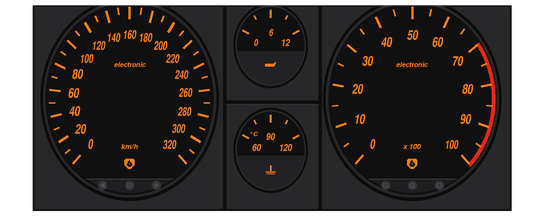
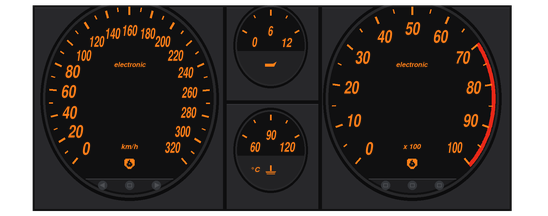
Furia TR: marcações menores e números maiores no quadro (mais perto do Veglia real) e coluna da porta inteira (janela lateral pela moldura de verdade)
Claude-Session: https://claude.ai/code/session_01MLD9VR7gkmY4w6a9beZcp6

diff --git a/tools/ref/testarossa_gauges.py b/tools/ref/testarossa_gauges.py
@@ -64,6 +64,7 @@ def tick(d, g, ang, r0, r1, w, col=OR):
 
 
 def label(s, cx, cy, size, squeeze=0.78, font=FONT, small_ok=True):
+    # small_ok=False: some na versão de 2 px por pixel (não cabe sem encostar nos vizinhos)
     LABELS.append((s, cx / K, cy / K, size, squeeze, font, small_ok))
 
 
@@ -71,8 +72,8 @@ def draw_labels(im):
     for s, cx, cy, size, squeeze, font, small_ok in LABELS:
         px = size * KO  # corpo em pixels finais
         x, y = cx * KO, cy * KO
-        if KO == 2 and px < 9:
-            if not all(ch in PIXFONT for ch in s):
+        if KO == 2 and px < 10:
+            if not small_ok or not all(ch in PIXFONT for ch in s):
                 continue
             tw = sum(len(PIXFONT[ch][0]) for ch in s) + len(s) - 1
             x0, y0 = int(round(x - tw / 2)), int(round(y - 2.5))
@@ -120,13 +121,13 @@ def big_dial(im, d, g, labels, minor, major, red_from=None, texts=()):
     v = 0.0
     while v <= g['max'] + 1e-6:
         if abs(v / major - round(v / major)) < 1e-6:
-            tick(d, g, fr(v), g['r'] - 3.6, g['r'] - 0.9, 0.62)
+            tick(d, g, fr(v), g['r'] - 2.6, g['r'] - 0.9, 0.5)
         else:
-            tick(d, g, fr(v), g['r'] - 2.4, g['r'] - 0.9, 0.42)
+            tick(d, g, fr(v), g['r'] - 1.8, g['r'] - 0.9, 0.34)
         v += minor
     for L in labels:
-        x, y = at(g, fr(L), g['r'] - 7.0)
-        label(str(L), x, y, 3.1 if L >= 100 else 3.3, squeeze=0.66 if L >= 100 else 0.78)
+        x, y = at(g, fr(L), g['r'] - (6.0 if L >= 100 else 5.6))
+        label(str(L), x, y, 4.0 if L >= 100 else 4.5, squeeze=0.6 if L >= 100 else 0.76, small_ok=L < 100 or L % 40 == 0 or g is TACH)
     # lente das luzes-espia embaixo (crescente escuro)
     x, y = P(g['x'], g['y'])
     rr = g['r'] * K
@@ -158,11 +159,11 @@ def small_dial(d, g, labels, icon):
     for i in range(5):
         a = a0 + (a1 - a0) * i / 4
         big = i % 2 == 0
-        tick(d, g, a, g['r'] - (2.3 if big else 1.6), g['r'] - 0.6, 0.5 if big else 0.4)
+        tick(d, g, a, g['r'] - (1.8 if big else 1.3), g['r'] - 0.6, 0.42 if big else 0.32)
     for i, L in enumerate(labels):
         a = a0 + (a1 - a0) * i / (len(labels) - 1)
-        lx, ly = at(g, a, g['r'] - 4.4)
-        label(L, lx, ly + K * 1.2, 2.5, squeeze=0.82)
+        lx, ly = at(g, a, g['r'] - 4.0)
+        label(L, lx, ly + K * 1.3, 3.3, squeeze=0.74, small_ok=not (len(labels) == 3 and i == 1 and len(labels[2]) > 2))
     ix, iy = x, y + rr * PY * 0.5
     s = K * 0.9
     if icon == 'oil':
@@ -195,8 +196,8 @@ def build(out):
         label(s2, x, y, 1.8, squeeze=1, font=FONT_S)
     small_dial(d, OIL, ['0', '6', '12'], 'oil')
     small_dial(d, WATER, ['60', '90', '120'], 'temp')
-    x, y = P(WATER['x'] - WATER['r'] * 0.5, WATER['y'] - WATER['r'] * 0.42 * PY)
-    label('°C', x, y, 1.6, squeeze=1, font=FONT_S)
+    x, y = P(WATER['x'] - WATER['r'] * 0.48, WATER['y'] + WATER['r'] * 0.5 * PY)
+    label('°C', x, y, 1.8, squeeze=1, font=FONT_S)  # na lente de baixo, ao lado do ícone
     # escudo da Fúria (no lugar do cavalinho) abaixo do km/h e do x 100
     for g in (SPEED, TACH):
         lg = logo(int(K * 2.6))

diff --git a/tools/ref/testarossa_cockpit.py b/tools/ref/testarossa_cockpit.py
@@ -79,7 +79,11 @@ def main():
             e = int(205 + y * (84 / 245)) + 3
         sky[y, :e] = False
     # janela da porta: paisagem à esquerda da coluna, acima da porta e do retrovisor
-    side = (xx < 126 - yy * 0.105) & (yy < 216) & ~((r_ > 120) & (r_ > g_ * 1.8) & (yy > 190))  # sem a carcaça vermelha
+    # janela da porta: o triângulo de paisagem abaixo da moldura diagonal da porta (a coluna e a
+    # moldura em cima ficam), até o retrovisor (a carcaça vermelha fica)
+    tri = np.zeros((H, W), np.uint8)
+    cv2.fillPoly(tri, [np.array([(0, 54), (102, 192), (106, 216), (0, 216)], np.int32)], 1)
+    side = tri.astype(bool) & ~((r_ > 120) & (r_ > g_ * 1.8) & (yy > 190))
     sky |= side
     sky &= yy < 300
     # espelho do retrovisor externo (azul dentro da carcaça vermelha)
